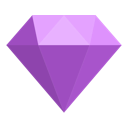
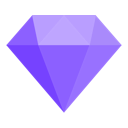
Deeper purple.

diff --git a/src/app/style/variables.less b/src/app/style/variables.less
@@ -1,6 +1,6 @@
 // Override ant less variables
-@primary-color: #8E44AD;                         // primary color for all components
-@link-color: #8E44AD;                            // link color
+@primary-color: #7642FF;                         // primary color for all components
+@link-color: #7642FF;                            // link color
 @success-color: #52c41a;                         // success state color
 @warning-color: #faad14;                         // warning state color
 @error-color: #f5222d;                           // error state color
